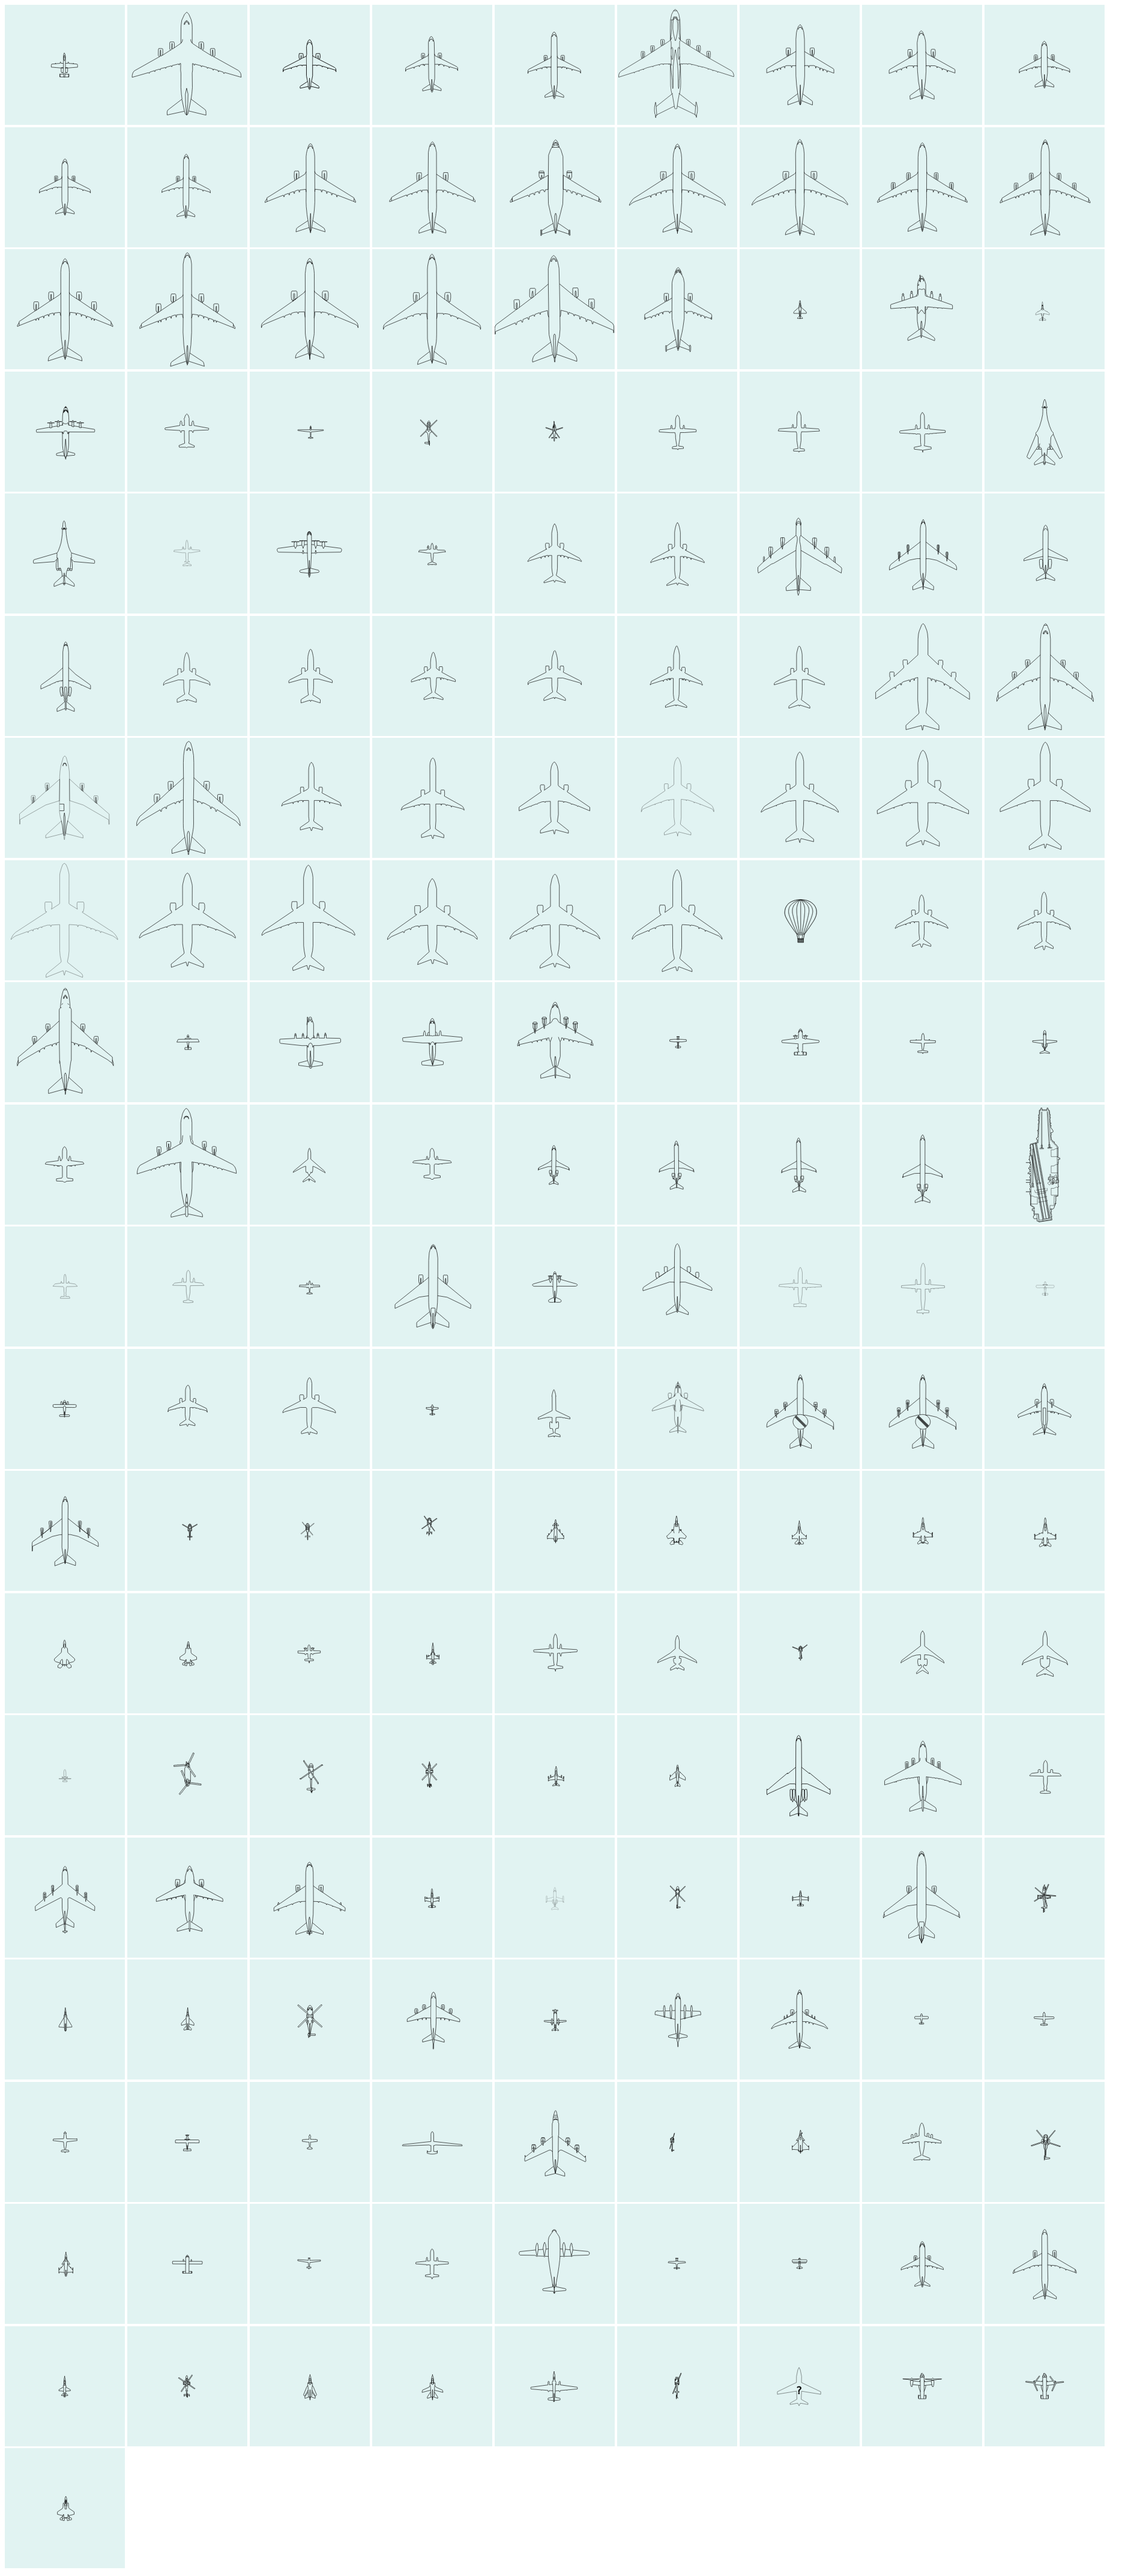
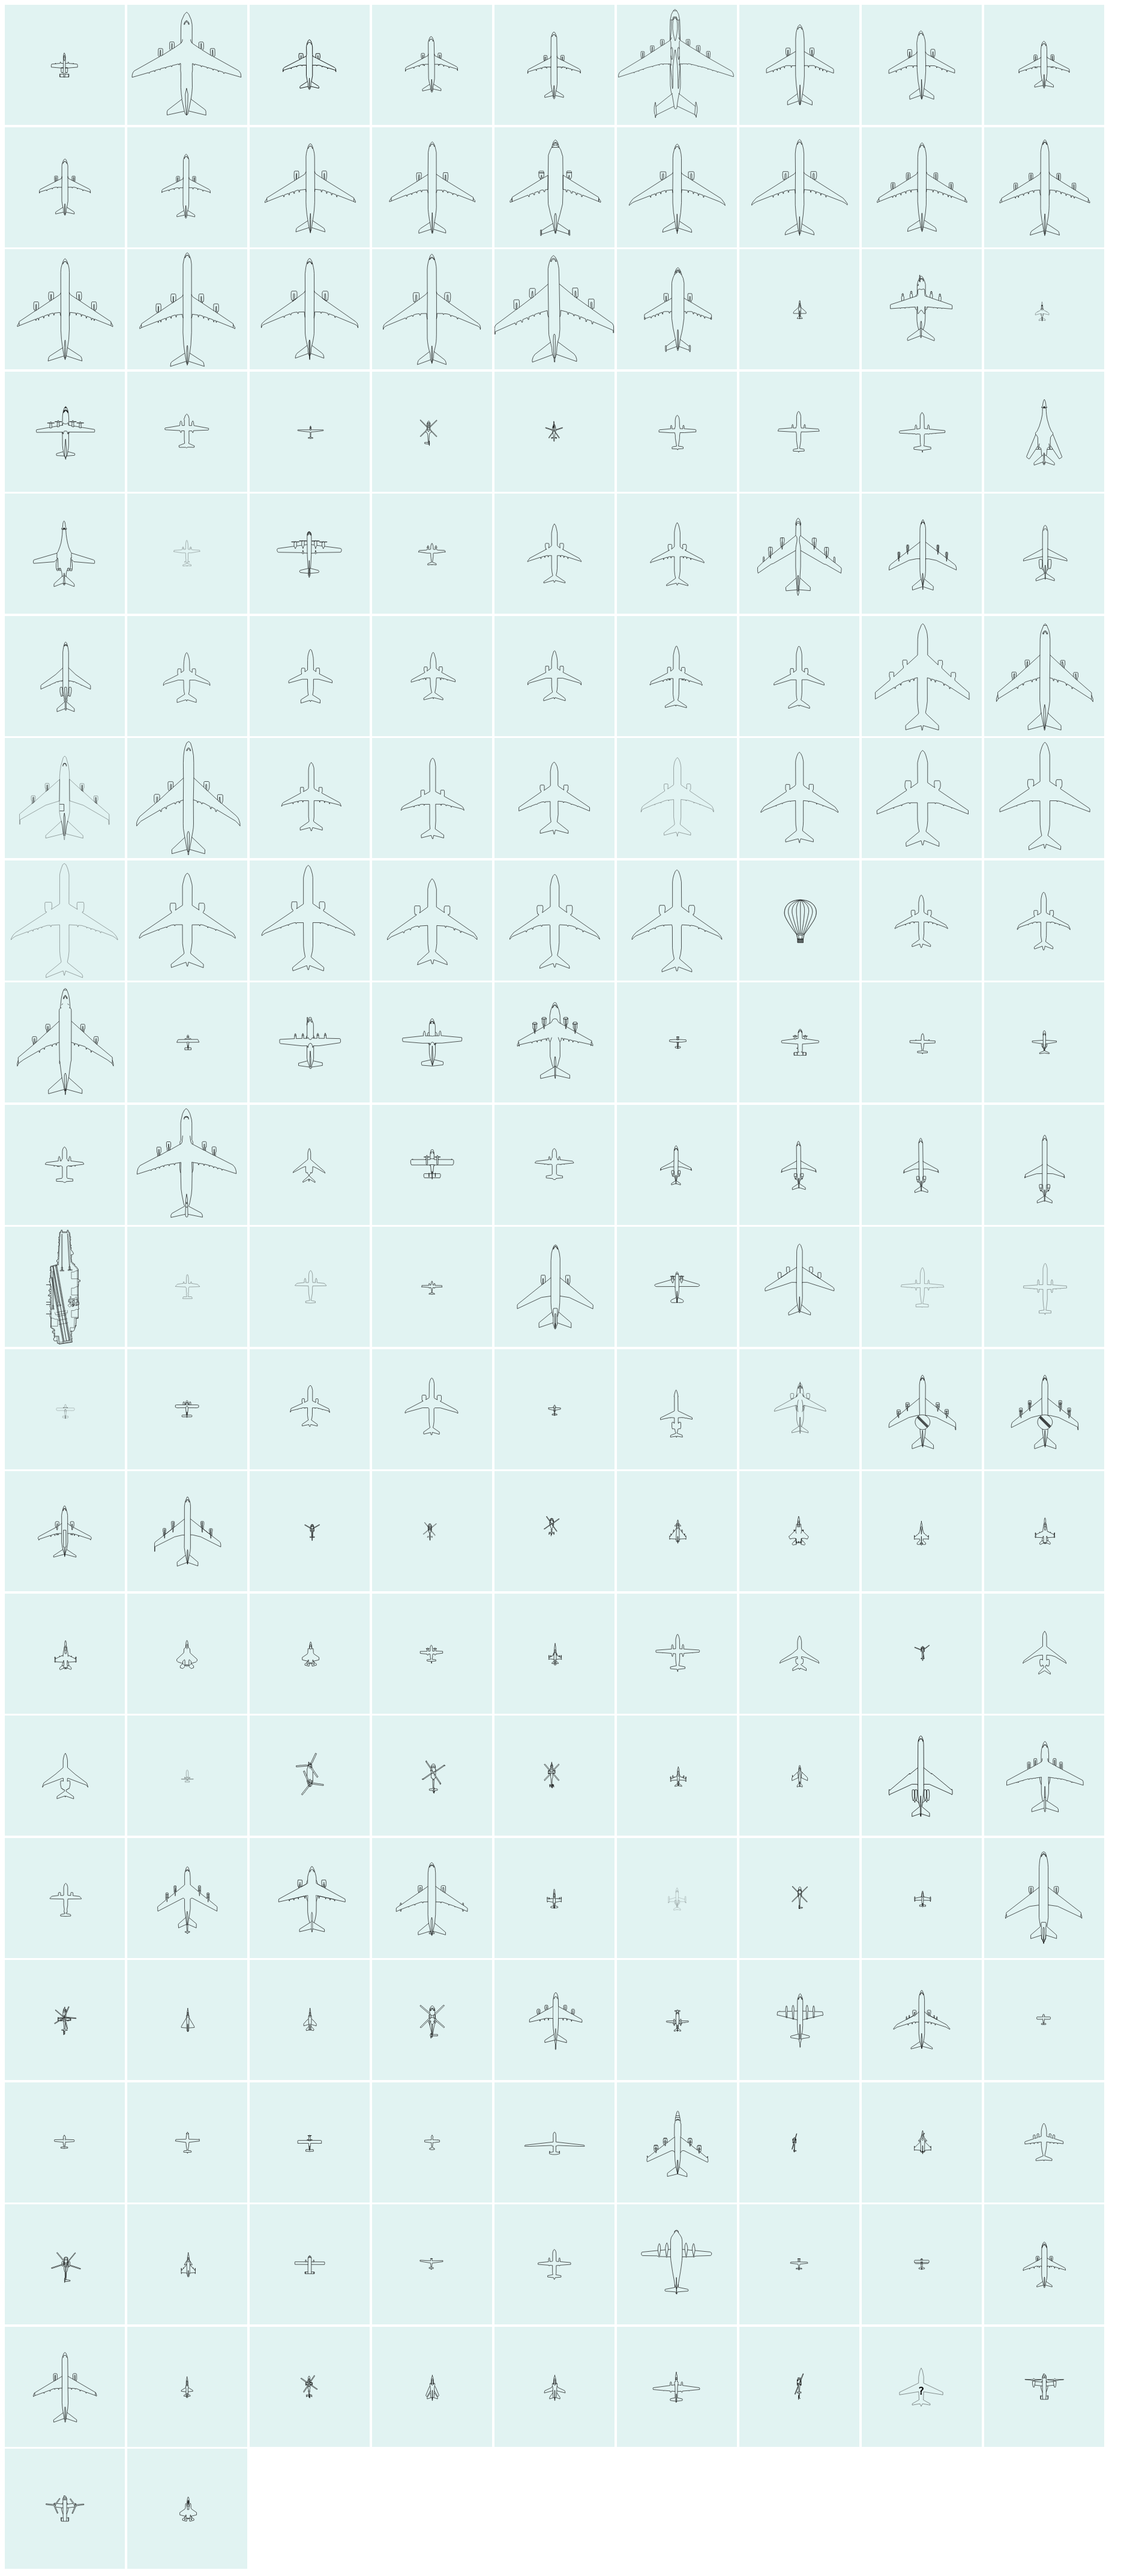
added CL2T

diff --git a/Shapes SVG/svgCatalog.html b/Shapes SVG/svgCatalog.html
@@ -82,6 +82,7 @@
 <img title="C295.svg" src="C295.svg" width="200" height="200" style="background-color: rgb(225, 243, 242)" /> 
 <img title="C5M.svg" src="C5M.svg" width="200" height="200" style="background-color: rgb(225, 243, 242)" /> 
 <img title="C750.svg" src="C750.svg" width="200" height="200" style="background-color: rgb(225, 243, 242)" /> 
+<img title="CL2T.svg" src="CL2T.svg" width="200" height="200" style="background-color: rgb(225, 243, 242)" />
 <img title="CN35.svg" src="CN35.svg" width="200" height="200" style="background-color: rgb(225, 243, 242)" /> 
 <img title="CRJ2.svg" src="CRJ2.svg" width="200" height="200" style="background-color: rgb(225, 243, 242)" /> 
 <img title="CRJ7.svg" src="CRJ7.svg" width="200" height="200" style="background-color: rgb(225, 243, 242)" /> 
